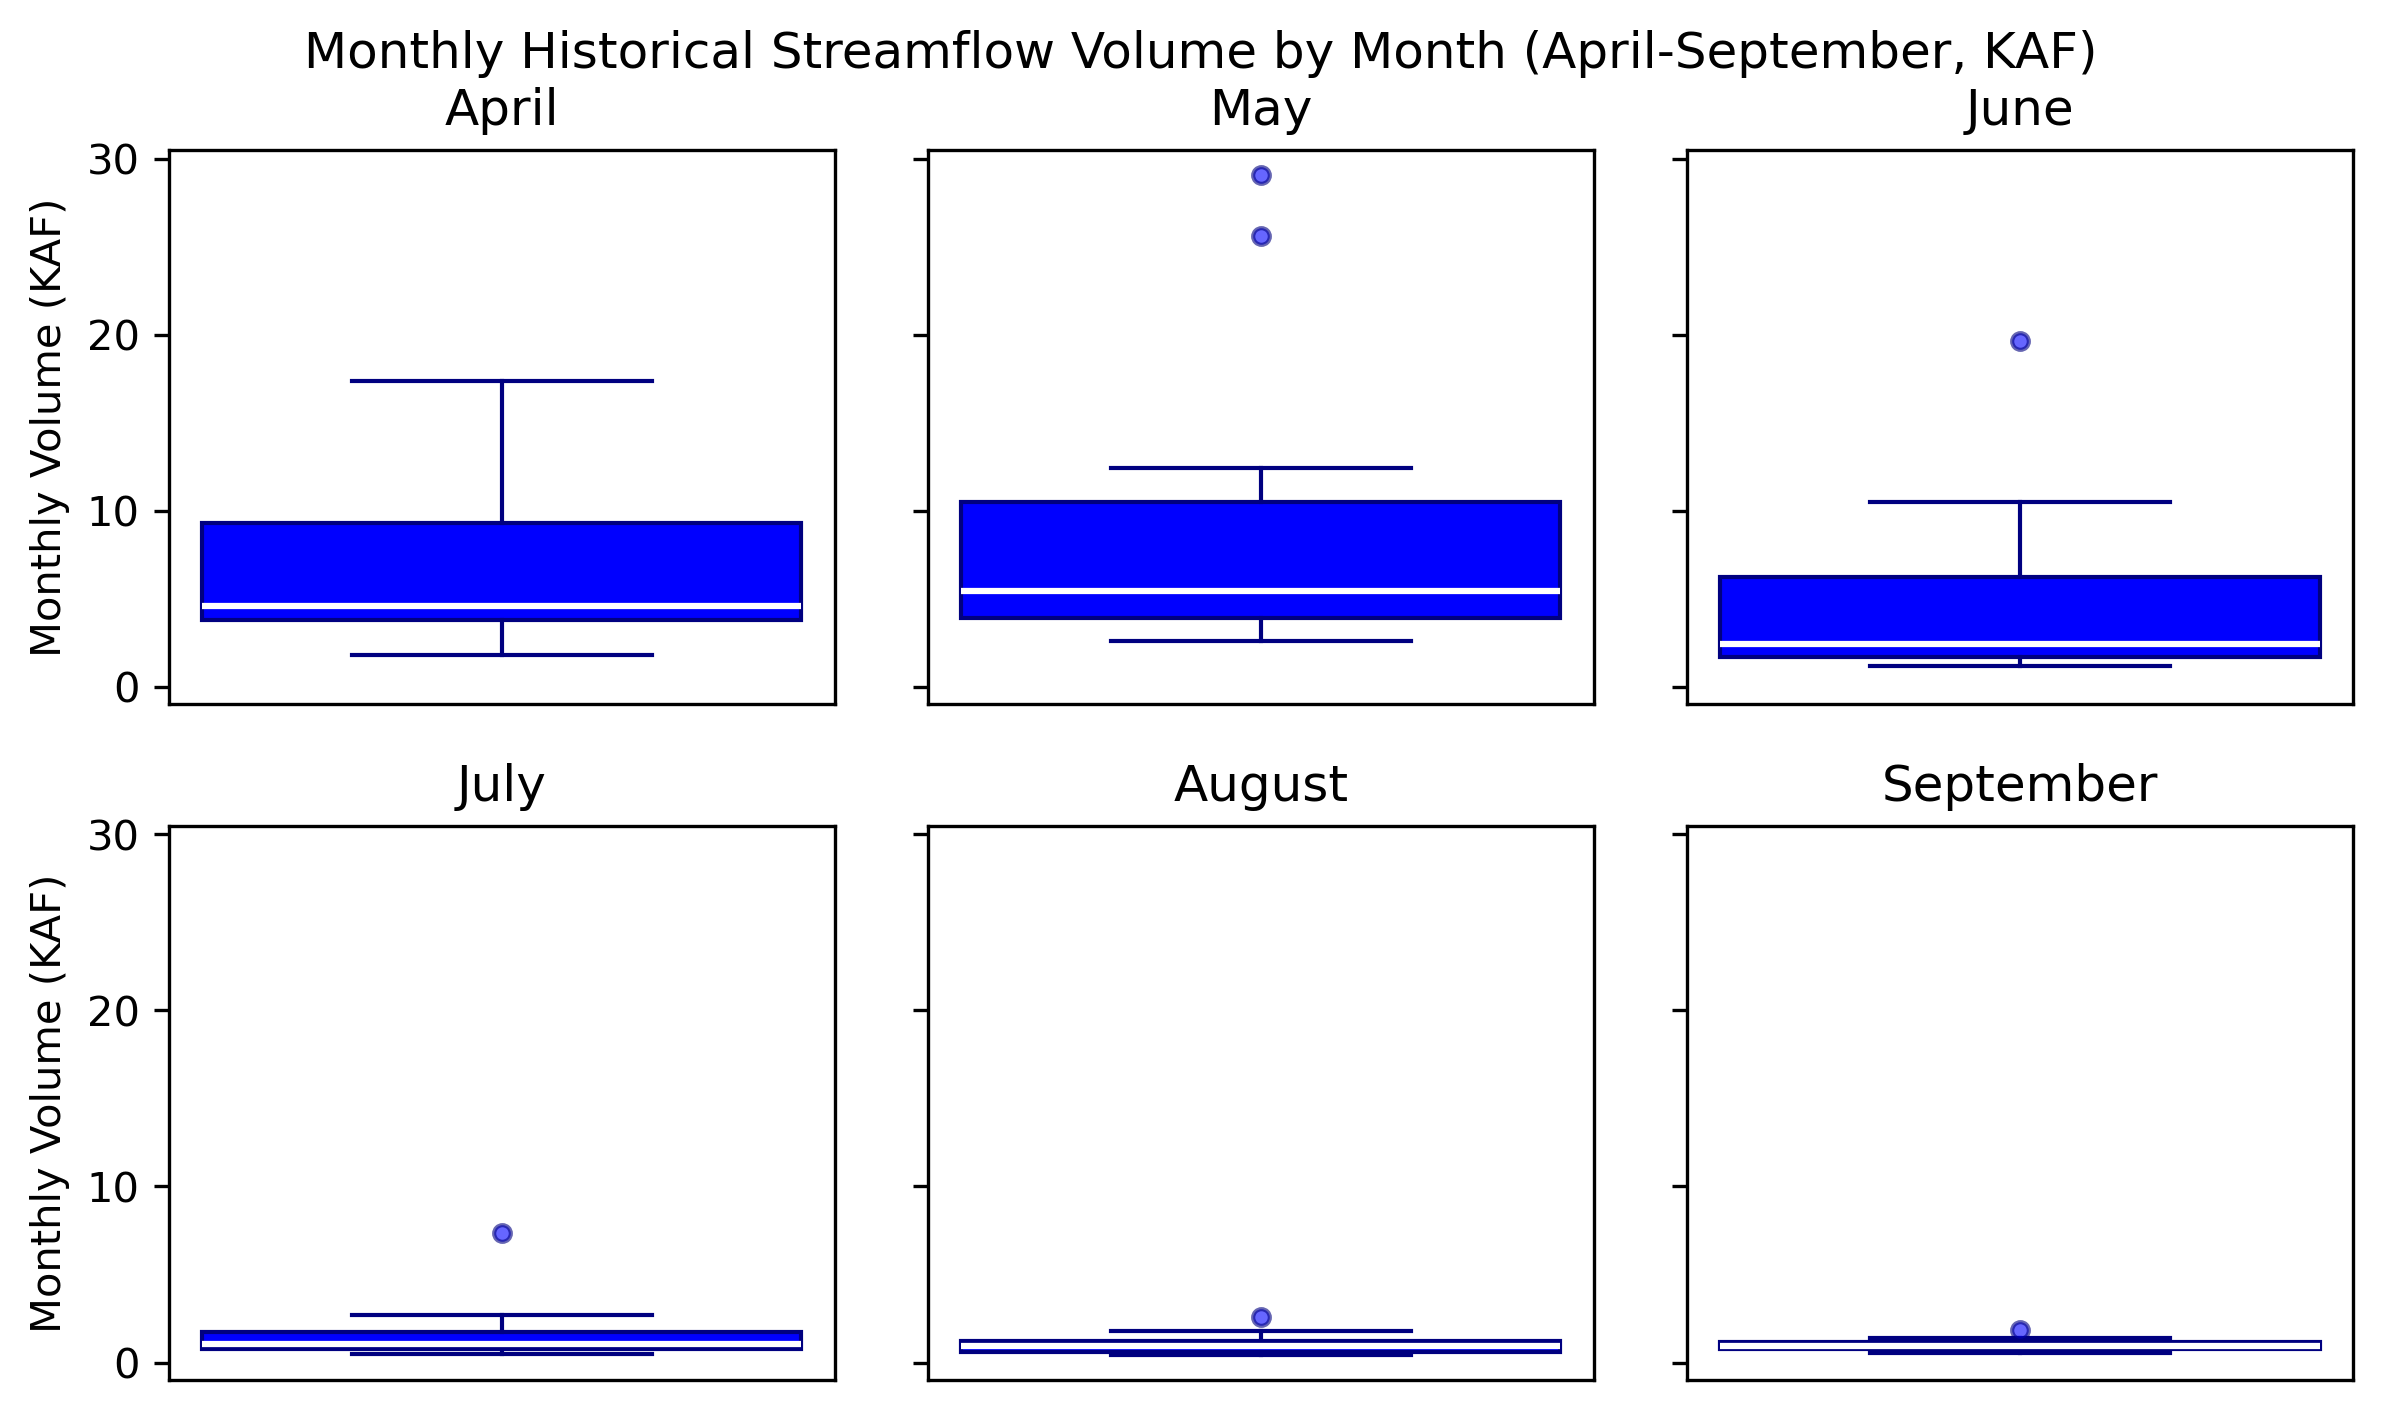
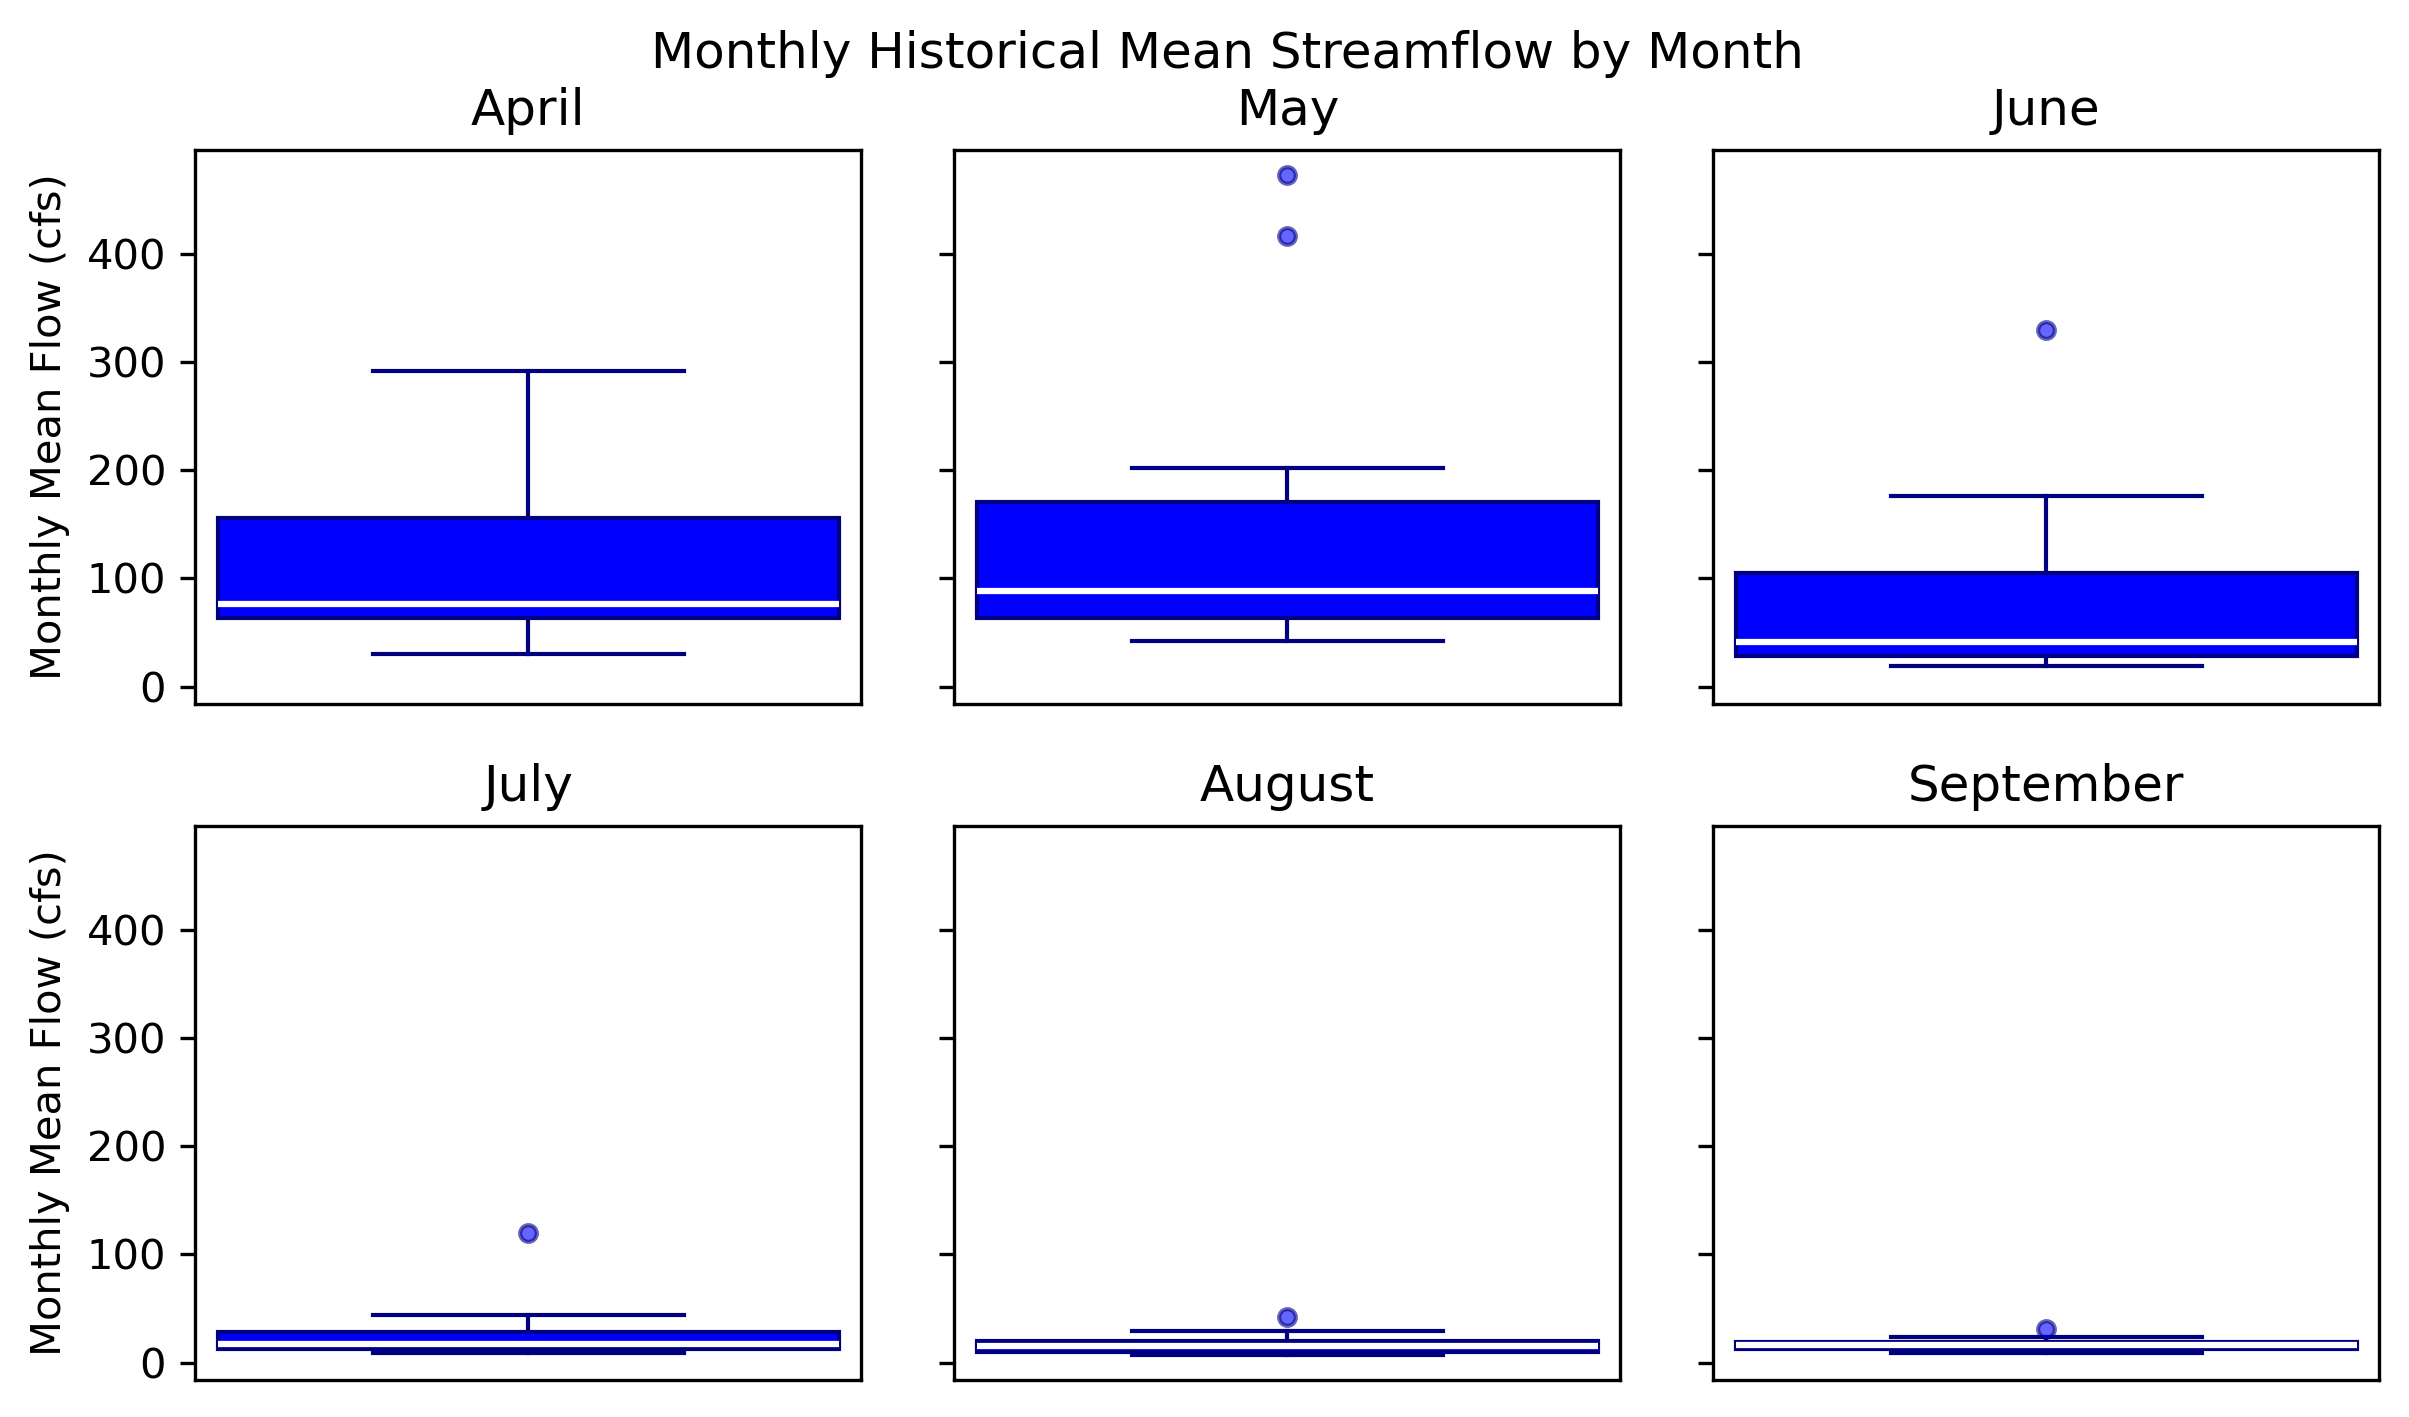
more changes

diff --git a/supporting/plotting.py b/supporting/plotting.py
@@ -152,7 +152,7 @@ def plot_monthly_streamflow_boxplot(
 	output_path="./images/streamflow_monthly_volume_boxplots.png",
 	show_plot=True,
 ):
-	"""Plot Apr-Sep monthly streamflow volume distributions (KAF) in separate subplots."""
+	"""Plot Apr-Sep monthly mean streamflow distributions (cfs) in separate subplots."""
 	working = data.copy()
 
 	if "Date" in working.columns:
@@ -166,14 +166,12 @@ def plot_monthly_streamflow_boxplot(
 	working["month"] = dates.month
 	working = working[working["month"].between(4, 9)].copy()
 
-	# Convert daily mean flow (cfs) to daily volume (acre-ft), then sum by year-month.
-	working["daily_volume_acre_ft"] = working["flow_cfs"] * 86400.0 / 43560.0
-	monthly_volume = (
-		working.groupby(["year", "month"], as_index=False)["daily_volume_acre_ft"]
-		.sum()
-		.rename(columns={"daily_volume_acre_ft": "monthly_volume_acre_ft"})
+	# Compute each water-year month's mean daily flow (cfs).
+	monthly_mean = (
+		working.groupby(["year", "month"], as_index=False)["flow_cfs"]
+		.mean()
+		.rename(columns={"flow_cfs": "monthly_mean_cfs"})
 	)
-	monthly_volume["monthly_volume_kaf"] = monthly_volume["monthly_volume_acre_ft"] / 1000.0
 
 	month_names = {
 		4: "April",
@@ -189,15 +187,15 @@ def plot_monthly_streamflow_boxplot(
 
 	for i, month in enumerate(range(4, 10)):
 		ax = axes[i]
-		month_vals = monthly_volume.loc[
-			monthly_volume["month"] == month,
-			"monthly_volume_kaf",
+		month_vals = monthly_mean.loc[
+			monthly_mean["month"] == month,
+			"monthly_mean_cfs",
 		].dropna()
 
 		if len(month_vals) > 0:
 			ax.boxplot(
 				month_vals.values,
-				widths=0.45,
+				widths=0.28,
 				patch_artist=True,
 				boxprops=dict(facecolor="blue", color="navy", alpha=1.0),
 				whiskerprops=dict(color="navy"),
@@ -216,12 +214,12 @@ def plot_monthly_streamflow_boxplot(
 
 		ax.set_title(month_names[month])
 		ax.set_xticks([])
-		ax.set_xlim(0.75, 1.25)
+		ax.set_xlim(0.85, 1.15)
 		ax.grid(False)
 		if i % 3 == 0:
-			ax.set_ylabel("Monthly Volume (KAF)")
+			ax.set_ylabel("Monthly Mean Flow (cfs)")
 
-	fig.suptitle("Monthly Historical Streamflow Volume by Month (April-September, KAF)", y=0.98)
+	fig.suptitle("Monthly Historical Mean Streamflow by Month", y=0.98)
 	fig.subplots_adjust(left=0.07, right=0.98, top=0.90, bottom=0.08, wspace=0.14, hspace=0.22)
 
 	if output_path:
